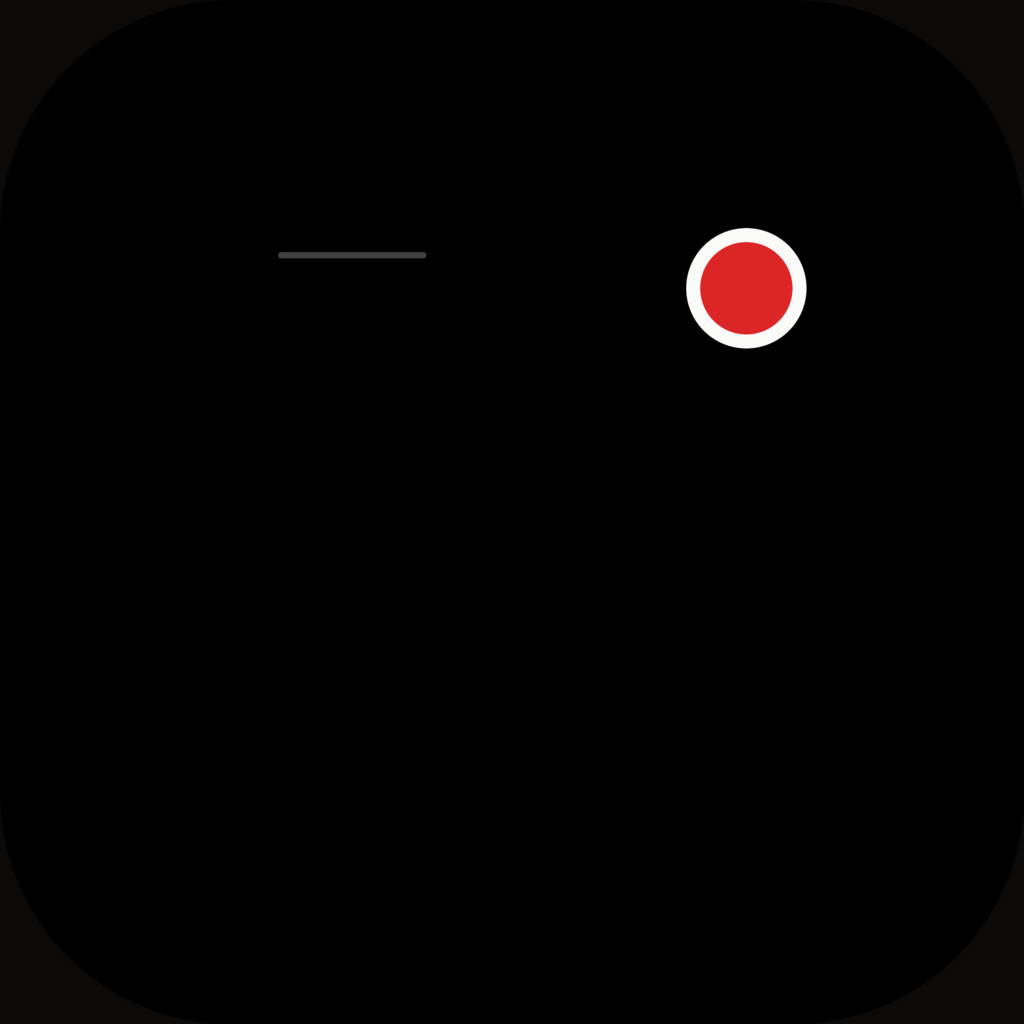
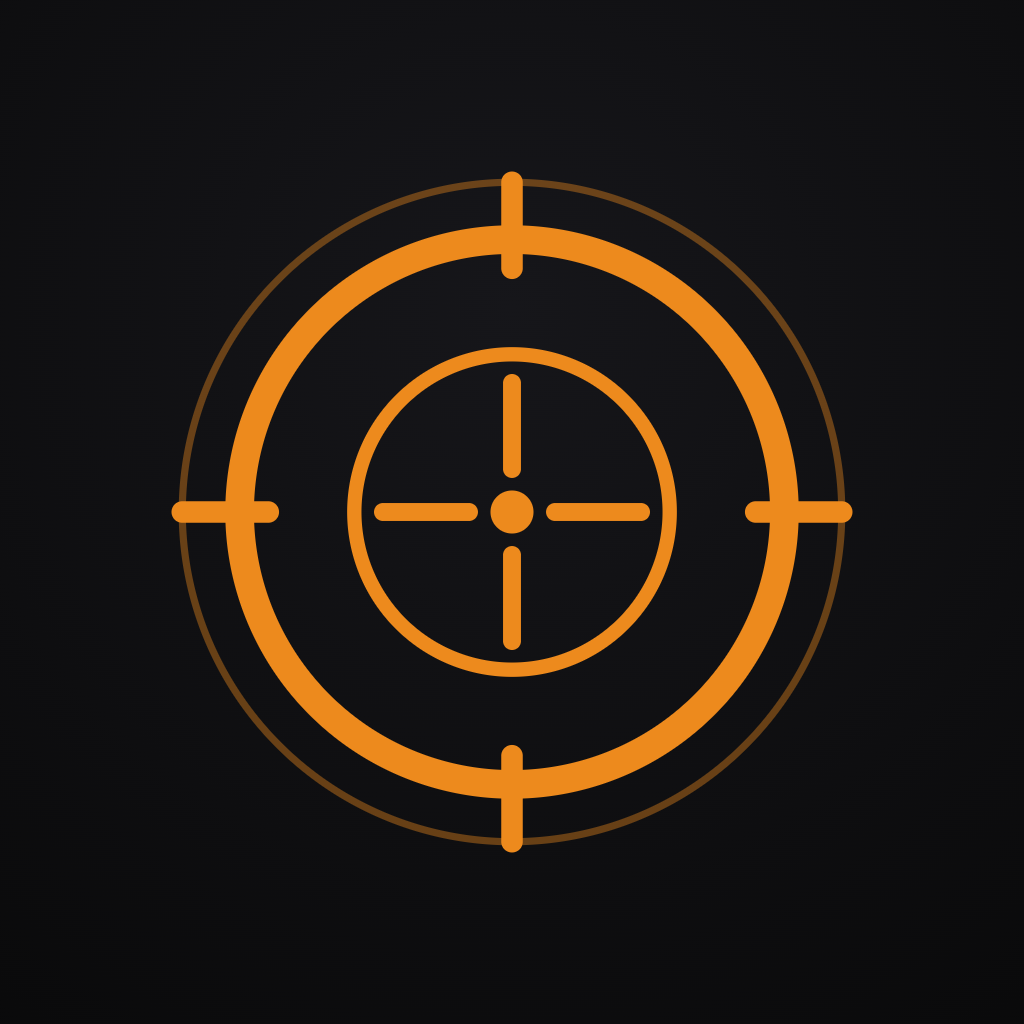
feat(session): add session start/end ritual instructions to CLAUDE.md
Every new Claude session reads CLAUDE.md first. Now it explicitly requires
running /catchup on start and /handoff before ending, so sessions stop working
blind. Fallback instructions included for sessions outside the repo directory.

Changed region(s): [[0.1562, 0.1562, 0.8438, 0.8438]]

diff --git a/CLAUDE.md b/CLAUDE.md
@@ -2,6 +2,30 @@
 
 This repo is a lead/deal tracker for **RefundLocators** (flips + surplus fund cases). Read this file before making changes — it has the stuff that isn't obvious from reading the code.
 
+## Session start and end ritual (REQUIRED)
+
+This repo is co-coded by Justin and Nathan, each running their own Claude Code sessions.
+Cross-session state lives in `WORKING_ON.md`, `session_archives/`, and `DIRECTOR_DCC_INTERFACE.md`.
+**You must run the session rituals so the other session doesn't work blind.**
+
+### Starting a session
+Run `/catchup` as your very first action. It pulls, reads WORKING_ON.md + recent session
+archives + DIRECTOR_DCC_INTERFACE.md + recent commits, and produces a <300-word briefing
+on what the other session shipped, what's in-flight, and any gotchas. Do not start work
+until you have run it.
+
+### Ending a session
+Run `/handoff` before your last response. It audits what you shipped, decides if it's
+substantive enough to archive (architectural decisions, migrations, edge function deploys,
+non-obvious gotchas), writes the session_archives entry if so, updates your section in
+WORKING_ON.md, and proposes a commit. **If you skip this, the next session starts blind.**
+
+Both commands live in `.claude/commands/`. If you are running from outside the repo
+directory and the slash commands are not available, manually do the equivalent:
+- Start: `git pull`, read `WORKING_ON.md` + `session_archives/index.md` + `DIRECTOR_DCC_INTERFACE.md`
+- End: update your section in `WORKING_ON.md` with status + what you shipped + open follow-ups,
+  write a `session_archives/YYYY-MM-DD-<slug>.md` if the session was substantive, commit both
+
 ## Architecture at a glance
 
 - **Source**: React JSX in `src/app.jsx` (~12,640 lines). Pre-compiled by **esbuild** to `app.js` (~483KB minified) via `npm run build`. **Edit `src/app.jsx`, NOT `index.html`.**